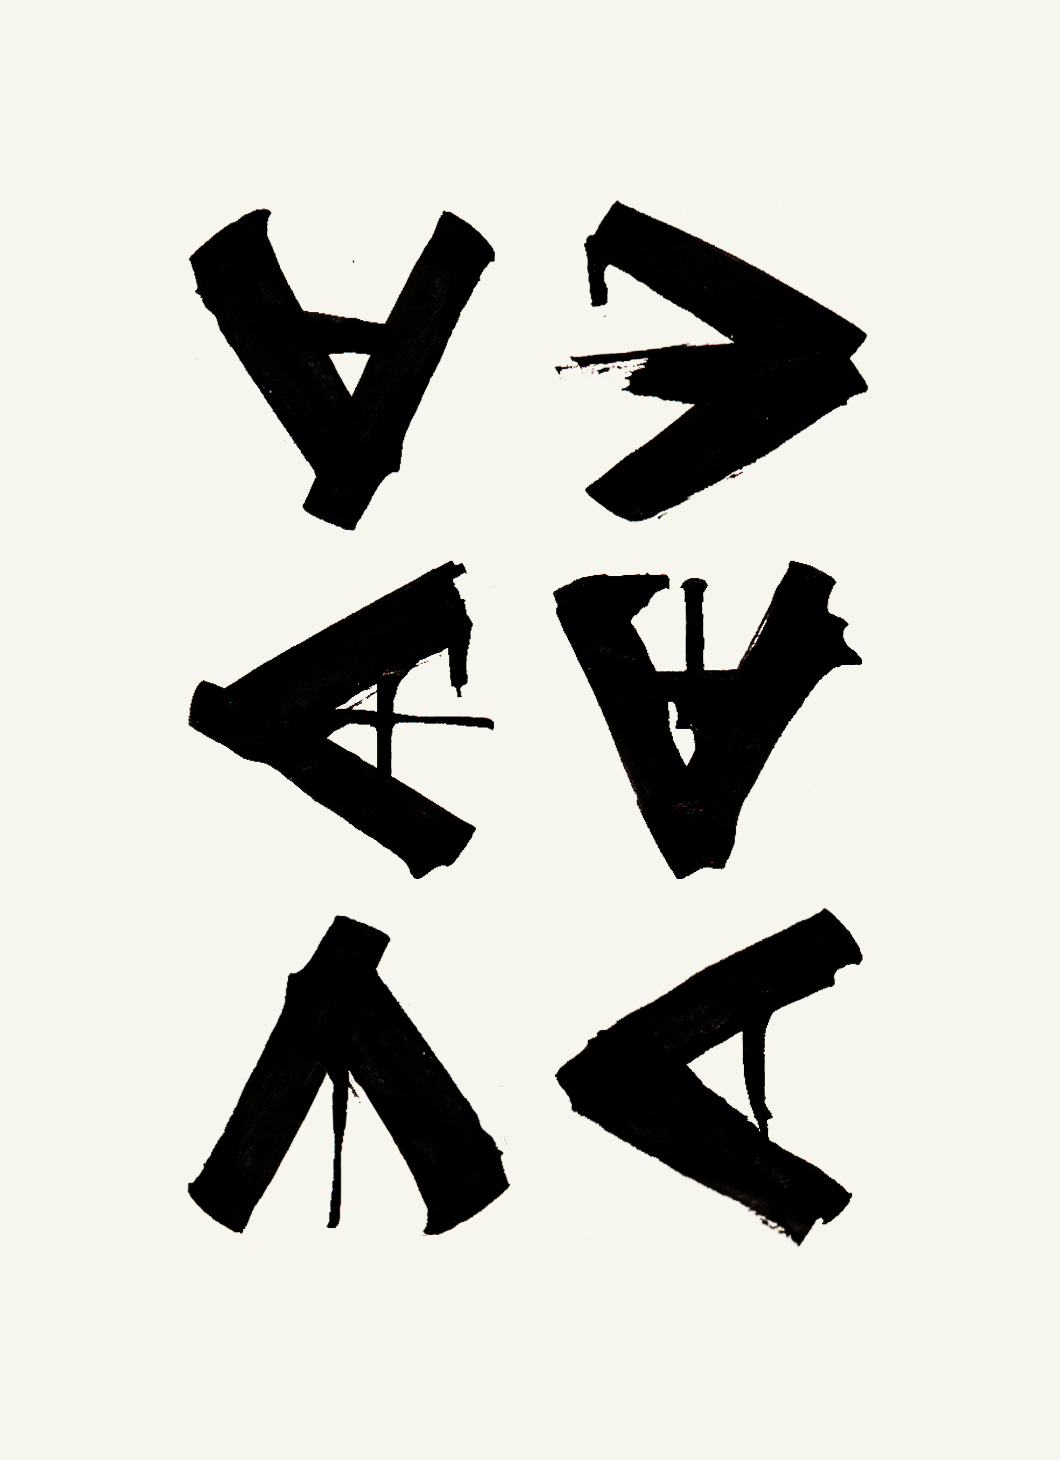
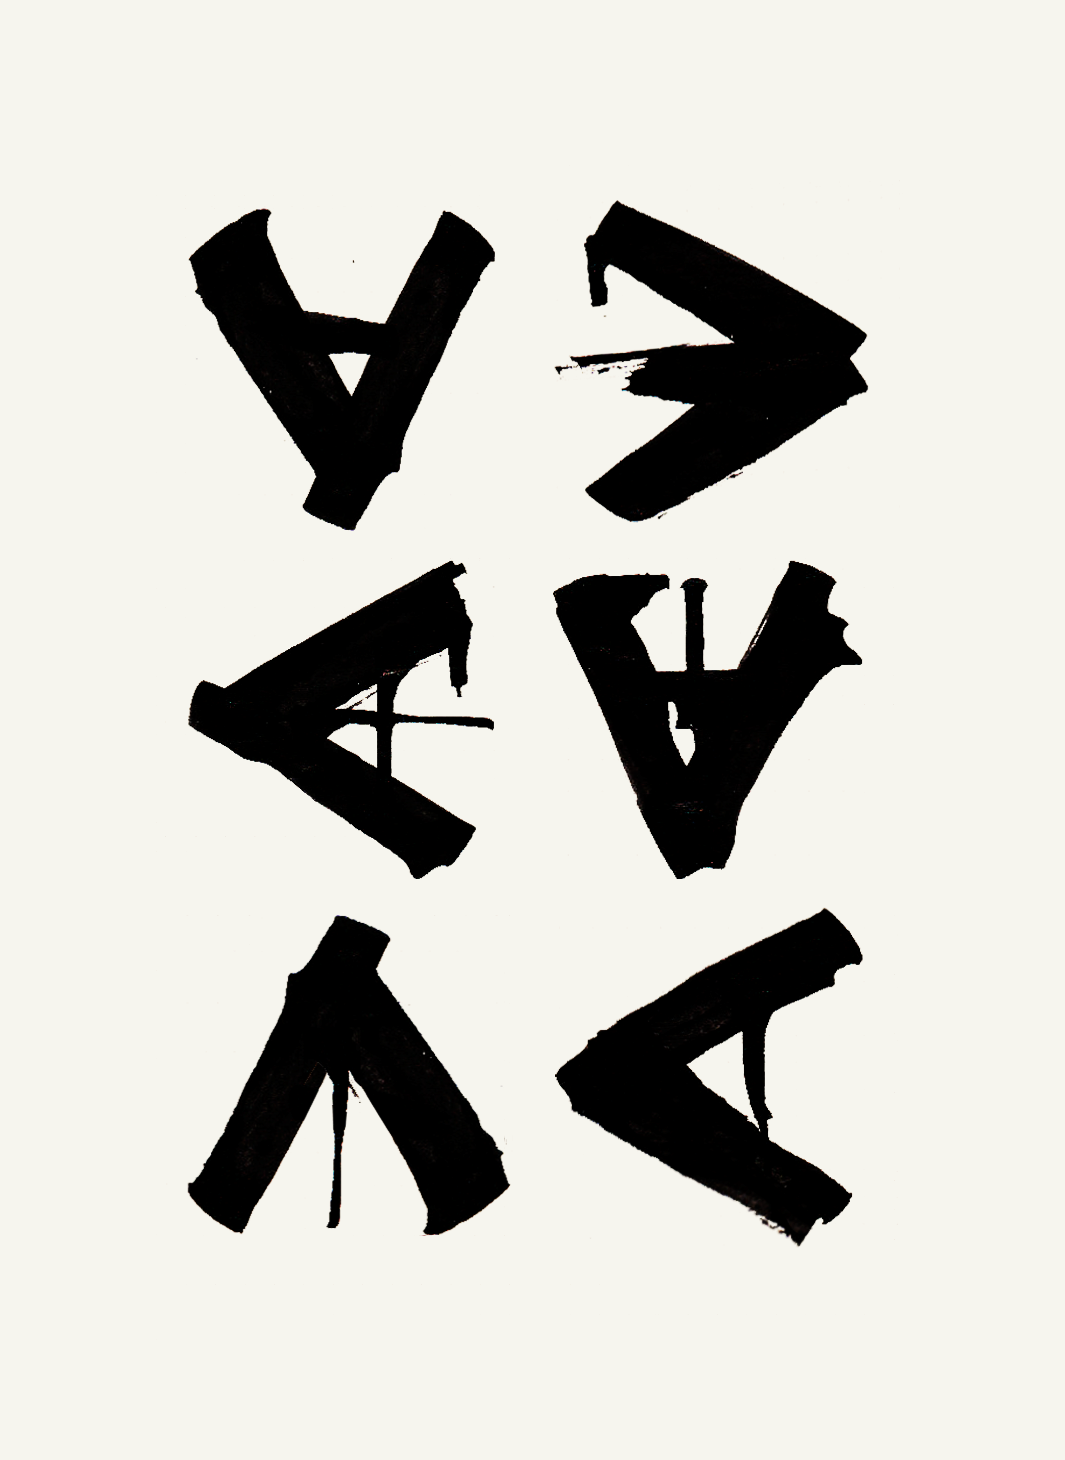
updating inkblots

diff --git a/_posts/2013-12-01-self-referential-inkblots.md b/_posts/2013-12-01-self-referential-inkblots.md
@@ -9,7 +9,7 @@ images:
   - src:    post-016_img.png
     class:  post-img
     width:  600
-    height: 826
+    height: 823
 ---
 V's, rather. Basically what you get when you cross an echo chamber of constraints with sumi ink.
 
